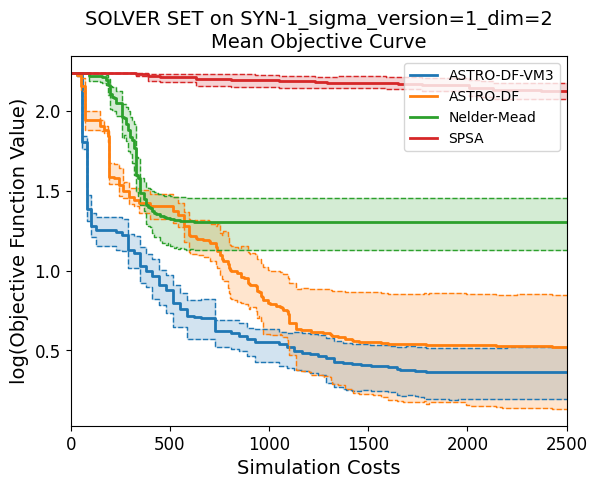
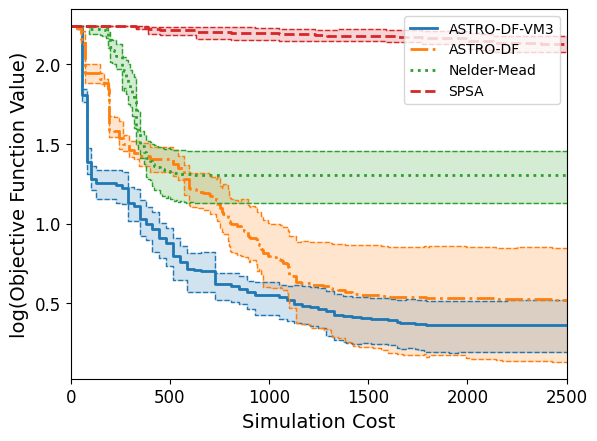
Update figures to ensure that the color figures in the main paper are clear in black and white as well. (#3)

diff --git a/simopt/experiment_base.py b/simopt/experiment_base.py
@@ -164,6 +164,37 @@ class Curve(object):
                            where="post"
                            )
         return handle
+    
+    def plot_marker(self, markers, color_str: str = "C0", curve_type: str = "regular") -> list["plt.Line2D"]:
+        """Plot a curve.
+
+        Parameters
+        ----------
+        color_str : str, default="C0"
+            String indicating line color, e.g., "C0", "C1", etc.
+        curve_type : str, default="regular"
+            String indicating type of line: "regular" or "conf_bound".
+
+        Returns
+        -------
+        handle : list [``matplotlib.lines.Line2D``]
+            Curve handle, to use when creating legends.
+        """
+        if curve_type == "regular":
+            linestyle = "-"
+            linewidth = 2
+        elif curve_type == "conf_bound":
+            linestyle = "--"
+            linewidth = 1
+
+        handle, = plt.step(self.x_vals,
+                           self.y_vals,
+                           color=color_str,
+                           linestyle=markers,
+                           linewidth=linewidth,
+                           where="post"
+                           )
+        return handle
 
 
 def mean_of_curves(curves: list["Curve"]) -> "Curve":
@@ -2088,6 +2119,8 @@ def plot_progress_curves(experiments: list["ProblemSolver"], plot_type: str, bet
     file_list = []
     # Set up plot.
     n_experiments = len(experiments)
+    #solver_names = [solver_experiments[0].solver.name for solver_experiments in experiments]
+    #print(solver_names)
     if all_in_one:
         ref_experiment = experiments[0]
         setup_plot(plot_type=plot_type,
@@ -2119,7 +2152,25 @@ def plot_progress_curves(experiments: list["ProblemSolver"], plot_type: str, bet
                     estimator = mean_of_curves(experiment.progress_curves)
                 else:
                     estimator = mean_of_curves(experiment.objective_curves)
-                handle = estimator.plot(color_str=color_str)
+
+                if experiment.solver.name == 'ASTRO-DF-VM1':
+                    markers = "dashed"
+                elif experiment.solver.name == 'ASTRO-DF-VM2':
+                    markers = "dotted"
+                elif experiment.solver.name == 'ASTRO-DF-VM3':
+                    markers = "solid"
+                elif experiment.solver.name == 'ASTRO-DF with regularized function (c_p = 1)':
+                    markers = "dotted"
+                elif experiment.solver.name == 'ASTRO-DF with regularized function (c_p = 10)':
+                    markers = "dashed"
+                elif experiment.solver.name == 'SPSA':
+                    markers = "dashed"
+                elif experiment.solver.name == 'Nelder-Mead':
+                    markers = "dotted"
+                elif experiment.solver.name == 'ASTRO-DF':
+                    markers = "dashdot"
+
+                handle = estimator.plot_marker(color_str=color_str, markers=markers)
             elif plot_type == "quantile":
                 # Plot estimated beta-quantile progress curve.
                 if normalize:
@@ -2280,7 +2331,25 @@ def plot_progress_curves_it(experiments: list["ProblemSolver"], plot_type: str, 
                     estimator = mean_of_curves(experiment.progress_curves)
                 else:
                     estimator = mean_of_curves(experiment.objective_curves)
-                handle = estimator.plot(color_str=color_str)
+
+                if experiment.solver.name == 'ASTRO-DF-VM1':
+                    markers = "dashed"
+                elif experiment.solver.name == 'ASTRO-DF-VM2':
+                    markers = "dotted"
+                elif experiment.solver.name == 'ASTRO-DF-VM3':
+                    markers = "solid"
+                elif experiment.solver.name == 'ASTRO-DF with regularized function (c_p = 1)':
+                    markers = "dotted"
+                elif experiment.solver.name == 'ASTRO-DF with regularized function (c_p = 10)':
+                    markers = "dashed"
+                elif experiment.solver.name == 'SPSA':
+                    markers = "dashed"
+                elif experiment.solver.name == 'Nelder-Mead':
+                    markers = "dotted"
+                elif experiment.solver.name == 'ASTRO-DF':
+                    markers = "dashdot"
+
+                handle = estimator.plot_marker(color_str=color_str, markers=markers)
             elif plot_type == "quantile":
                 # Plot estimated beta-quantile progress curve.
                 if normalize:
@@ -2689,6 +2758,7 @@ def plot_solvability_profiles(experiments: list[list["ProblemSolver"]], plot_typ
         solver_names = [solver_experiments[0].solver.name for solver_experiments in experiments]
         solver_curves = []
         solver_curve_handles = []
+
         for solver_idx in range(n_solvers):
             solver_sub_curves = []
             color_str = "C" + str(solver_idx)
@@ -2705,8 +2775,30 @@ def plot_solvability_profiles(experiments: list[list["ProblemSolver"]], plot_typ
             solver_curve = mean_of_curves(solver_sub_curves)
             # CAUTION: Using mean above requires an equal number of macro-replications per problem.
             solver_curves.append(solver_curve)
+
             if plot_type in {"cdf_solvability", "quantile_solvability"}:
-                handle = solver_curve.plot(color_str=color_str)
+                if solver_names[solver_idx] == 'ASTRO-DF-VM1':
+                    markers = "dashed"
+                elif solver_names[solver_idx] == 'ASTRO-DF-VM2':
+                    markers = "dotted"
+                elif solver_names[solver_idx] == 'ASTRO-DF-VM3':
+                    markers = "solid"
+                elif solver_names[solver_idx] == 'ASTRO-DF with regularized function (c_p = 1)':
+                    markers = "dotted"
+                elif solver_names[solver_idx] == 'ASTRO-DF with regularized function (c_p = 10)':
+                    markers = "dashed"
+                elif solver_names[solver_idx] == 'SPSA':
+                    markers = "dashed"
+                elif solver_names[solver_idx] == 'Nelder-Mead':
+                    markers = "dotted"
+                elif solver_names[solver_idx] == 'ASTRO-DF':
+                    markers = "dashdot"
+                elif solver_names[solver_idx] == 'ASTRO-DF-VM3 with c_v = 10':
+                    markers = "solid"
+                elif solver_names[solver_idx] == 'ASTRO-DF-VM3 with c_v = 100':
+                    markers = "dotted"
+
+                handle = solver_curve.plot_marker(color_str=color_str, markers = markers)
                 solver_curve_handles.append(handle)
                 if plot_CIs or print_max_hw:
                     # Note: "experiments" needs to be a list of list of ProblemSolver objects.
@@ -3109,14 +3201,14 @@ def setup_plot(plot_type: str, solver_name: str = "SOLVER SET", problem_name: st
     if normalize:
         plt.ylabel("Fraction of Initial Optimality Gap", size=14)
         if plot_type != "box" and plot_type != "violin":
-            plt.xlabel("Fraction of Budget", size=14)
+            plt.xlabel("Fraction of Simulation Cost", size=14)
             plt.xlim((0, 1))
             plt.ylim((-0.1, 1.1))
             plt.tick_params(axis="both", which="major", labelsize=12)
     else:
         plt.ylabel("Objective Function Value", size=14)
         if plot_type != "box" and plot_type != "violin":
-            plt.xlabel("Budget", size=14)
+            plt.xlabel("Simulation Cost", size=14)
             plt.xlim((0, budget))
             plt.tick_params(axis="both", which="major", labelsize=12)
     # Specify title (plus alternative y-axis label and alternative axes).
@@ -3174,7 +3266,7 @@ def setup_plot(plot_type: str, solver_name: str = "SOLVER SET", problem_name: st
         # plt.xlim((0, 1))
         # plt.ylim((0, 0.5))
         title = f"{solver_name}\nTerminal Progress"
-    plt.title(title, size=14)
+    #plt.title(title, size=14)
 
 
 def save_plot(solver_name: str, problem_name: str, plot_type: str, normalize: bool, extra: Union[float, list[float], None] = None) -> str:

diff --git a/simopt/experiment_base_log_flat.py b/simopt/experiment_base_log_flat.py
@@ -165,6 +165,34 @@ class Curve(object):
                            )
         return handle
 
+    def plot_marker(self, markers, color_str: str = "C0", curve_type: str = "regular") -> list["plt.Line2D"]:
+        """Plot a curve.
+
+        Parameters
+        ----------
+        color_str : str, default="C0"
+            String indicating line color, e.g., "C0", "C1", etc.
+        curve_type : str, default="regular"
+            String indicating type of line: "regular" or "conf_bound".
+
+        Returns
+        -------
+        handle : list [``matplotlib.lines.Line2D``]
+            Curve handle, to use when creating legends.
+        """
+        if curve_type == "regular":
+            linewidth = 2
+        elif curve_type == "conf_bound":
+            linewidth = 1
+
+        handle, = plt.step(self.x_vals,
+                           self.y_vals,
+                           color=color_str,
+                           linestyle=markers,
+                           linewidth=linewidth,
+                           where="post"
+                           )
+        return handle
 
 def mean_of_curves(curves: list["Curve"]) -> "Curve":
     """Compute pointwise (w.r.t. x-values) mean of curves.
@@ -1503,7 +1531,30 @@ def plot_progress_curves(experiments: list["ProblemSolver"], plot_type: str, bet
                     estimator = mean_of_curves(experiment.progress_curves)
                 else:
                     estimator = mean_of_curves(experiment.objective_curves)
-                handle = estimator.plot(color_str=color_str)
+
+                if experiment.solver.name == 'ASTRO-DF-VM1':
+                    markers = "dashed"
+                elif experiment.solver.name == 'ASTRO-DF-VM2':
+                    markers = "dotted"
+                elif experiment.solver.name == 'ASTRO-DF-VM3':
+                    markers = "solid"
+                elif experiment.solver.name == 'ASTRO-DF with regularized function (c_p = 1)':
+                    markers = "dotted"
+                elif experiment.solver.name == 'ASTRO-DF with regularized function (c_p = 10)':
+                    markers = "dashed"
+                elif experiment.solver.name == 'SPSA':
+                    markers = "dashed"
+                elif experiment.solver.name == 'Nelder-Mead':
+                    markers = "dotted"
+                elif experiment.solver.name == 'ASTRO-DF':
+                    markers = "dashdot"
+                elif experiment.solver.name == 'ASTRO-DF-2Model':
+                    markers = "solid"
+                elif experiment.solver.name == 'ASTRO-DF-1Model':
+                    markers = "dashdot"
+
+                handle = estimator.plot_marker(color_str=color_str, markers=markers)
+
             elif plot_type == "quantile":
                 # Plot estimated beta-quantile progress curve.
                 if normalize:
@@ -1532,12 +1583,12 @@ def plot_progress_curves(experiments: list["ProblemSolver"], plot_type: str, bet
         entire_labels = [experiment.solver.name for experiment in experiments]
         # Two model        
         estimator = mean_of_curves_flat_3()
-        handle = estimator.plot(color_str = "C3")
+        handle = estimator.plot_marker(color_str = "C3", markers=(0,(1,10)))
         entire_labels.append("The lowest local mininum value at (-3.78,-3.28)")
         solver_curve_handles.append(handle)
         
         estimator = mean_of_curves_flat_global()
-        handle = estimator.plot(color_str = "C4")
+        handle = estimator.plot_marker(color_str = "C4", markers=(0,(3,5,1,5,1,5)))
         entire_labels.append("The global mininum value at (3,2)")
         solver_curve_handles.append(handle)
 
@@ -2346,7 +2397,7 @@ def setup_plot(plot_type: str, solver_name: str = "SOLVER SET", problem_name: st
     if normalize:
         plt.ylabel("Fraction of Initial Optimality Gap", size=14)
         if plot_type != "box" and plot_type != "violin":
-            plt.xlabel("Fraction of Simulation Costs", size=14)
+            plt.xlabel("Fraction of Simulation Cost", size=14)
             plt.xlim((0, 1))
             plt.ylim((-0.1, 1.1))
             plt.tick_params(axis="both", which="major", labelsize=12)
@@ -2354,7 +2405,7 @@ def setup_plot(plot_type: str, solver_name: str = "SOLVER SET", problem_name: st
         #plt.ylabel("Objective Function Value", size=14)
         plt.ylabel("log(Objective Function Value)", size=14)
         if plot_type != "box" and plot_type != "violin":
-            plt.xlabel("Simulation Costs", size=14)
+            plt.xlabel("Simulation Cost", size=14)
             plt.xlim((0, budget))
             plt.tick_params(axis="both", which="major", labelsize=12)
     # Specify title (plus alternative y-axis label and alternative axes).
@@ -2412,7 +2463,7 @@ def setup_plot(plot_type: str, solver_name: str = "SOLVER SET", problem_name: st
         # plt.xlim((0, 1))
         # plt.ylim((0, 0.5))
         title = f"{solver_name}\nTerminal Progress"
-    plt.title(title, size=14)
+    #plt.title(title, size=14)
 
 
 def save_plot(solver_name: str, problem_name: str, plot_type: str, normalize: bool, extra: Union[float, list[float], None] = None) -> str:

diff --git a/simopt/experiment_base_log.py b/simopt/experiment_base_log.py
@@ -164,7 +164,37 @@ class Curve(object):
                            where="post"
                            )
         return handle
+    
+    def plot_marker(self, markers, color_str: str = "C0", curve_type: str = "regular") -> list["plt.Line2D"]:
+        """Plot a curve.
 
+        Parameters
+        ----------
+        color_str : str, default="C0"
+            String indicating line color, e.g., "C0", "C1", etc.
+        curve_type : str, default="regular"
+            String indicating type of line: "regular" or "conf_bound".
+
+        Returns
+        -------
+        handle : list [``matplotlib.lines.Line2D``]
+            Curve handle, to use when creating legends.
+        """
+        if curve_type == "regular":
+            linestyle = "-"
+            linewidth = 2
+        elif curve_type == "conf_bound":
+            linestyle = "--"
+            linewidth = 1
+
+        handle, = plt.step(self.x_vals,
+                           self.y_vals,
+                           color=color_str,
+                           linestyle=markers,
+                           linewidth=linewidth,
+                           where="post"
+                           )
+        return handle
 
 def mean_of_curves(curves: list["Curve"]) -> "Curve":
     """Compute pointwise (w.r.t. x-values) mean of curves.
@@ -1491,7 +1521,29 @@ def plot_progress_curves(experiments: list["ProblemSolver"], plot_type: str, bet
                     estimator = mean_of_curves(experiment.progress_curves)
                 else:
                     estimator = mean_of_curves(experiment.objective_curves)
-                handle = estimator.plot(color_str=color_str)
+
+                if experiment.solver.name == 'ASTRO-DF-VM1':
+                    markers = "dashed"
+                elif experiment.solver.name == 'ASTRO-DF-VM2':
+                    markers = "dotted"
+                elif experiment.solver.name == 'ASTRO-DF-VM3':
+                    markers = "solid"
+                elif experiment.solver.name == 'ASTRO-DF with regularized function (c_p = 1)':
+                    markers = "dotted"
+                elif experiment.solver.name == 'ASTRO-DF with regularized function (c_p = 10)':
+                    markers = "dashed"
+                elif experiment.solver.name == 'SPSA':
+                    markers = "dashed"
+                elif experiment.solver.name == 'Nelder-Mead':
+                    markers = "dotted"
+                elif experiment.solver.name == 'ASTRO-DF':
+                    markers = "dashdot"
+                elif experiment.solver.name == 'ASTRO-DF-2Model':
+                    markers = "solid"
+                elif experiment.solver.name == 'ASTRO-DF-1Model':
+                    markers = "dashdot"
+
+                handle = estimator.plot_marker(color_str=color_str, markers=markers)
             elif plot_type == "quantile":
                 # Plot estimated beta-quantile progress curve.
                 if normalize:
@@ -2320,7 +2372,7 @@ def setup_plot(plot_type: str, solver_name: str = "SOLVER SET", problem_name: st
     if normalize:
         plt.ylabel("Fraction of Initial Optimality Gap", size=14)
         if plot_type != "box" and plot_type != "violin":
-            plt.xlabel("Fraction of Budget", size=14)
+            plt.xlabel("Fraction of Simulation Cost", size=14)
             plt.xlim((0, 1))
             plt.ylim((-0.1, 1.1))
             plt.tick_params(axis="both", which="major", labelsize=12)
@@ -2328,7 +2380,7 @@ def setup_plot(plot_type: str, solver_name: str = "SOLVER SET", problem_name: st
         #plt.ylabel("Objective Function Value", size=14)
         plt.ylabel("log(Objective Function Value)", size=14)
         if plot_type != "box" and plot_type != "violin":
-            plt.xlabel("Budget", size=14)
+            plt.xlabel("Simulation Cost", size=14)
             plt.xlim((0, budget))
             plt.tick_params(axis="both", which="major", labelsize=12)
     # Specify title (plus alternative y-axis label and alternative axes).
@@ -2386,7 +2438,7 @@ def setup_plot(plot_type: str, solver_name: str = "SOLVER SET", problem_name: st
         # plt.xlim((0, 1))
         # plt.ylim((0, 0.5))
         title = f"{solver_name}\nTerminal Progress"
-    plt.title(title, size=14)
+    #plt.title(title, size=14)
 
 
 def save_plot(solver_name: str, problem_name: str, plot_type: str, normalize: bool, extra: Union[float, list[float], None] = None) -> str:
